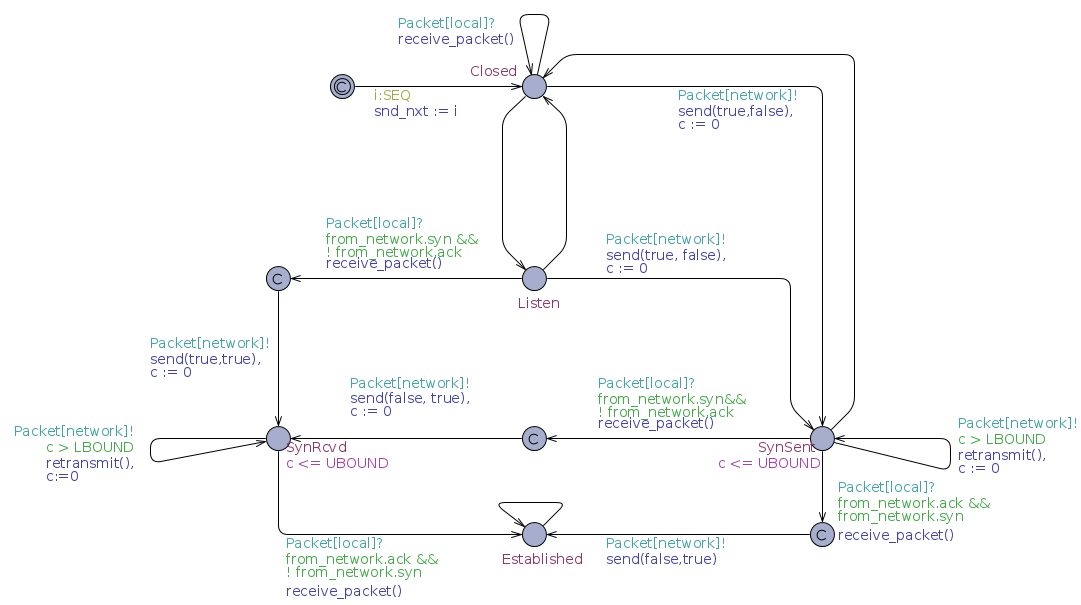
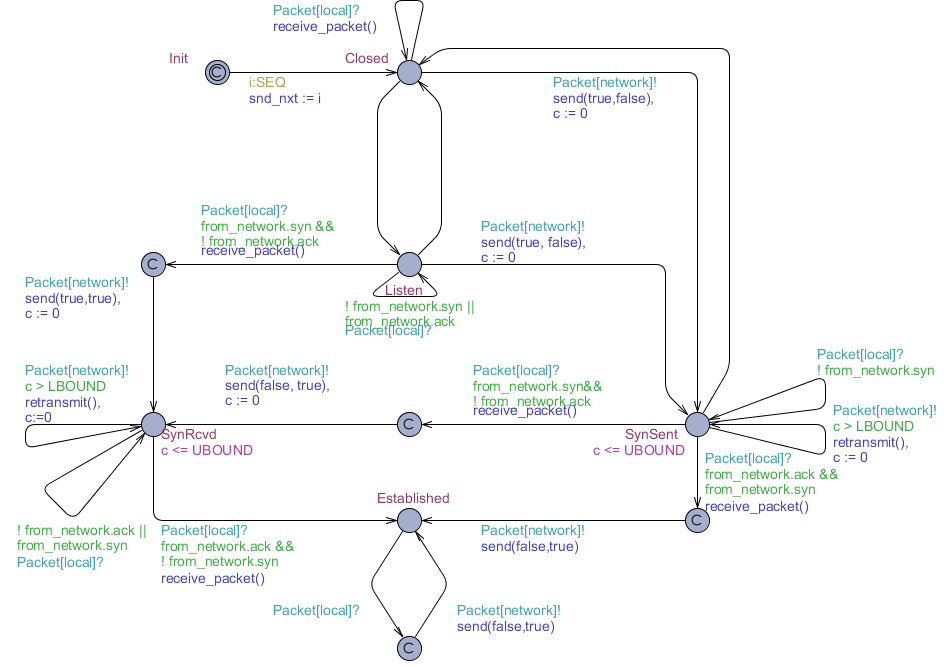
Simultaneous connect, and issues described

diff --git a/Report/GDN.tex b/Report/GDN.tex
@@ -27,7 +27,7 @@
 \usepackage{fancyhdr}
 	\pagestyle{fancy}
 	\fancyhead{}
-	\fancyfoot{}
+	\fancyfoot[C]{\thepage}
 	\fancyhead[C]{Jip J. Dekker and Ben Br\"ucker $\bullet$ GDN Final Assignment}
 %including sourcecode in text
 \usepackage{verbatim}
@@ -65,7 +65,7 @@
 \twocolumn[\begin{@twocolumnfalse}
   \maketitle
   	\begin{abstract}
-  		\noindent In this report we will discuss our model in Uppaal of the 3-way handshake as used in the TCP protocol. We will give an overview of the handshake itself and provide meaningful observation about specific aspects of this protocol. Furthermore we will discuss the specifics of our model and comment on some of the decisions we made designing the model. In conclusion we will submit our model to verification and model checking using the Uppaal query language, proving basic basic functionality and guaranteeing connection setup.
+  		\noindent In this report we will discuss our model in Uppaal of the 3-way handshake as used in the TCP protocol. We will give an overview of the handshake itself and provide meaningful observation about specific aspects of this protocol. Furthermore we will discuss the specifics of our model and comment on some of the decisions we made designing the model. In conclusion we will submit our model to verification and model checking using the Uppaal query language, proving basic basic functionality and guaranteeing connection set-up.
 	\end{abstract}
 \end{@twocolumnfalse}]
 
@@ -145,12 +145,14 @@ We ensure that every possible initial sequence number can be used for checking t
 
 Visually, our model has the same layout as the diagram on page 23 of Rfc793. This helps to see how our model maps to the real specification. (See figure 1 for our model)
 \begin{figure*}
-  \includegraphics[width=\textwidth]{host_model}
+  \includegraphics[scale=0.55]{host_model} % at textwidth, the figure takes an entire page
   \caption{The model of a host}
 \end{figure*}
 We model every state connected to the TCP handshake, namely Closed, Listen, SynSent, RynRcvd and Established. Since we can not synchronize two channels at once, we added committed states between Listen-SynRcvd, SynSent-Established, and SynSent-RynRcvd. This way we can model the behavior of receiving, and then sending a packet as a single action.
 
 Hosts also support a re-send timer if an acknowledgment is not received faster then the round-trip time. This upper bound is not specified in Rfc793, but they suggest that one second is a reasonable value for this. Therefore our UBOUND is set to 600, corresponding to 60,0 seconds. This re-send timer is reset every time a packet is send to the network.
+
+The hosts also check for faulty packets, and discard them. These are the loops at Listen, SynRcvd and SynSent. 
 
 Our hosts are modeled to update all necessary values for sending the next packet when a packet is received. This is defined in our receive packet function:
 \begin{verbatim}
@@ -182,7 +184,7 @@ When a packet is accepted, then the ack that this host will send is set to the r
 \subsubsection{Abstraction from real hosts}
 \begin{itemize}
 \item The space of sequence numbers is much larger in real hosts, and sequence number wrapping can only occur on very fast networks. But because we do not model real data transmission in the established state, and only focus on the connection set-up, a few sequence numbers are enough to model all interesting cases. Therefore we set our max sequence number to 3.
-\item We do not model the behavior of connection-reset packets that can be send when a host refuses a connection.
+\item We do not model the behaviour of connection-reset packets that can be send when a host refuses a connection. These reset packets should be used instead of just discarding faulty packets.
 \item For real TCP connections, there are many more checks to be done for checking whether a packet will be accepted or not. Also, the expected next sequence number will not always be the last sequence number +1. But since we only model the connection set-up behavior, our simplifications will suffice. Since this behavior matches that particular part of Rfc793.
 \item Our model will indefinitely try to re-send a packet if it is not received. This does not match real-world behavior, but since we modeled our networks to only drop a maximum number of packets, this will not matter.
 \end{itemize}
@@ -199,7 +201,8 @@ When a packet is accepted, then the ack that this host will send is set to the r
 	\label{sub:model_verification}
 		As discussed before we can verify that the model has the basic functionality as described in the request for change. The first thing that should be guaranteed is that two hosts can connect to each other. This is simply verified by the following query stating that there is such a state that both Host1 and Host2 are in the Established state:
 		\begin{verbatim}
-			E<> Host1.Established and Host2.Established
+			E<> Host1.Established 
+			and Host2.Established
 		\end{verbatim}
 		This is verified this way as an host only enter the Established state once it's connected.
 
@@ -226,14 +229,15 @@ or Host1.SynSent) and Host2.Established)
 	% subsection model_verification (end)
 	\subsection{Guaranteeing an connection} % (fold)
 	\label{sub:guaranteeing_an_connection}
-		The queries become more interesting while trying to analyse an specific aspect of the model. The aspect we are interested in is an garanteed connection setup. This just means that when both hosts are able to setup an connection and both hosts want a connection, the connection will be sure to be setup. Hosts are able to setup a connection when they aren't in the Init or Closed state, to force the hosts to enter other states we remove the transition from the Closed state back to itself and garantee the host leaves the closed state by making it an commited state. And to make sure a hosts doesn't deny the connection setup we remove the possibility for hosts to return to the closed state. With these changes to the model we can now write a query that checks if the model does garantee an connection between the two hosts given that they both try or accept connection setup.
+		The queries become more interesting while trying to analyse an specific aspect of the model. The aspect we are interested in is an guaranteed connection set-up. This just means that when both hosts are able to set-up an connection and both hosts want a connection, the connection will be sure to be set-up. Hosts are able to setup a connection when they aren't in the Init or Closed state, to force the hosts to enter other states we remove the transition from the Closed state back to itself and guarantee the host leaves the closed state by making it an committed state. And to make sure a hosts doesn't deny the connection set-up we remove the possibility for hosts to return to the closed state. With these changes to the model we can now write a query that checks if the model does guarantee an connection between the two hosts given that they both try or accept connection set-up.
 
-		First we prove that if the connection isn't setup using an simultanious initiation, that there will always follow an connection between the two hosts. To check if this condition holds within our model we need to disable the possibility for the simultanious initiation. We do this by removing the transition from the Listen state to the SynSent state and forcing within the query that one host travels the SynSent state, while the other passes the Listen state. To check if these conditions result in an established connection can be checked by the following query:
+		\subsubsection{Case 1: Basic three-way handshake}
+		First we prove that if the connection isn't set-up using an simultaneous initiation, that there will always follow an connection between the two hosts. To check if this condition holds within our model we need to disable the possibility for the simultaneous initiation. We do this by removing the transition from the Listen state to the SynSent state and forcing within the query that one host travels the SynSent state, while the other passes the Listen state. To check if these conditions result in an established connection can be checked by the following query:
 		\begin{verbatim}
 			(Host1.Listen and Host2.SynSent) -->
- (Host1.Established and Host2.Established)
+			(Host1.Established and Host2.Established)
 		\end{verbatim}
-		This query holds in our model as is shown in figure \ref{fig:verifier2.png}.
+		This query holds in our model as is shown in figure \ref{fig:verifier2}.
 		\begin{figure}[h!]
 			\begin{center}
 				\includegraphics[width=\linewidth]{verifier-listen.png}
@@ -241,12 +245,41 @@ or Host1.SynSent) and Host2.Established)
 			\caption{Uppaal verifier - Basic Three-way Handshake}
 			\label{fig:verifier2}
 		\end{figure}
+		% subsubsection Case 1: Basic three-way handshake (end)
+		
+		\subsubsection{Case 2: Simultaneous connection request}
+		Now we prove that when a simultaneous connection request happens, there will always be a established connection between both hosts. To check for this condition, we remove the transition between Closed and Listen. This way, both hosts have to establish a connection using a simultaneous connection set-up. Within the query we force that both hosts pass the SynSent state.
+		\begin{verbatim}
+			(Host1.SynSent and Host2.SynSent) -->
+			(Host1.Established and Host2.Established)
+		\end{verbatim}
+		This query holds in our model as is shown in figure \ref{fig:verifier3}.
+		\begin{figure}[h!]
+			\begin{center}
+				\includegraphics[width=\linewidth]{verifier-simul.png}
+			\end{center}
+			\caption{Uppaal verifier - Simultaneous Connection Request}
+			\label{fig:verifier3}
+		\end{figure}
+		
+		% subsubsection Case 2: Simultaneous connection request (end)
+		\subsubsection{Issues concerning the checking of this model}
+		At the moment it is not possible to check both queries in the same model without removing some connections. This is due to the fact that we do not model the behaviour of reset-packets. Because connection cannot be actively reset, there exists an infinite loop when the following occurs:
+		\begin{enumerate}
+			\item Host1 sends a Syn packet, and is now in the SynSent state
+			\item Host2 was in the Closed state, so the packet gets discarded
+			\item Host2 now sends a Syn packet to Host1 before Host1's re-send timer triggered.
+			\item Host1 thinks this is a simultaneous connection request and goes into the SynRcvd state. 
+			\item Host2 is now waiting for a Syn, or a SynAck packet and keeps re-sending Syn packets.
+			\item Host1 is now waiting for a Ack packet, and keeps re-sending Ack packets.
+		\end{enumerate}
+		% subsubsection Issues concerning the checking of this model (end)
 	% subsection guaranteeing_an_connection (end)
 % section model_checking_and_verification (end)
-
+	
 
 \section{Conclusions}
-
+		In this report we have proven the correctness of the basic three-way handshake and the simultaneous connection set-up on a simplified model of the TCP handshake.
 
 
 \end{document}
